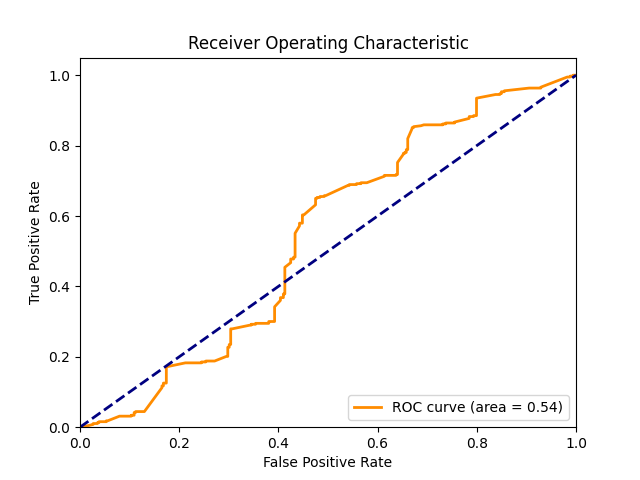
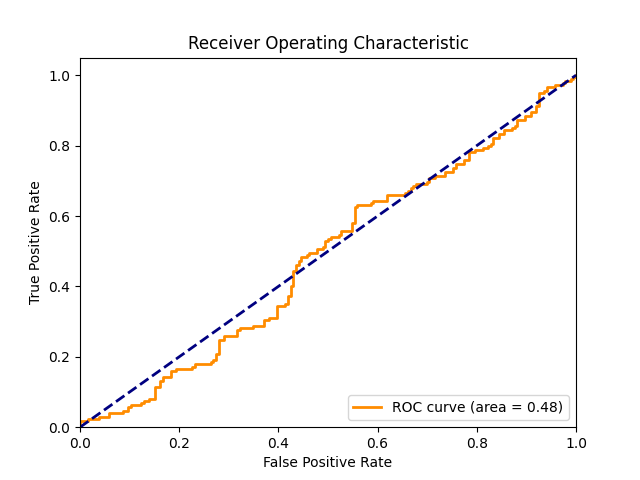
add blocks to mlo

diff --git a/src/network.py b/src/network.py
@@ -57,9 +57,13 @@ class complexSiamese(nn.Module):
         self.bn3 = nn.BatchNorm2d(128)
         
         self.conv4 = nn.Conv2d(128, 256, kernel_size=3, padding=1)
+        ## same output channels, just to refine the features later on
+        self.conv5 = nn.Conv2d(256, 256, kernel_size=3, padding=1)
         self.bn4 = nn.BatchNorm2d(256)
         
-        self.conv5 = nn.Conv2d(256, 512, kernel_size=3, padding=1)
+        self.conv6 = nn.Conv2d(256, 512, kernel_size=3, padding=1)
+        self.conv7 = nn.Conv2d(512, 512, kernel_size=3, padding=1)
+    
         self.bn5 = nn.BatchNorm2d(512)
         
         # self.fc1 = nn.Linear(131072, 128)  # Adjust input size based on input dimensions
@@ -73,8 +77,14 @@ class complexSiamese(nn.Module):
         output1_pool2 = F.max_pool2d(output1_conv2, kernel_size=2, stride=2)
         output1_conv3 = F.relu(self.bn3(self.conv3(output1_pool2)))
         output1_pool3 = F.max_pool2d(output1_conv3, kernel_size=2, stride=2)
-        output1_conv4 = F.relu(self.bn4(self.conv4(output1_pool3)))
-        output1_pool4 = F.max_pool2d(output1_conv4, kernel_size=2, stride=2)
+        
+        output1_conv4 = F.relu(self.conv4(output1_pool3))
+        output1_conv5 = F.relu(self.bn4(self.conv5(output1_conv4)))
+        output1_pool4 = F.max_pool2d(output1_conv5, kernel_size=2, stride=2)
+        
+        output1_conv6 = F.relu(self.conv6(output1_pool4))
+        output1_conv7 = F.relu(self.conv7(output1_conv6))
+        output1_pool5 = F.max_pool2d(output1_conv7, kernel_size=2, stride=2)
 
 
         output2_conv1 = F.relu(self.bn1(self.conv1(input2)))
@@ -83,13 +93,19 @@ class complexSiamese(nn.Module):
         output2_pool2 = F.max_pool2d(output2_conv2, kernel_size=2, stride=2)
         output2_conv3 = F.relu(self.bn3(self.conv3(output2_pool2)))
         output2_pool3 = F.max_pool2d(output2_conv3, kernel_size=2, stride=2)
-        output2_conv4 = F.relu(self.bn4(self.conv4(output2_pool3)))
-        output2_pool4 = F.max_pool2d(output2_conv4, kernel_size=2, stride=2)
+        
+        output2_conv4 = F.relu(self.conv4(output2_pool3))
+        output2_conv5 = F.relu(self.bn4(self.conv5(output2_conv4)))
+        output2_pool4 = F.max_pool2d(output2_conv5, kernel_size=2, stride=2)
+    
+        output2_conv6 = F.relu(self.conv6(output2_pool4))
+        output2_conv7 = F.relu(self.conv7(output2_conv6))
+        output2_pool5 = F.max_pool2d(output2_conv7, kernel_size=2, stride=2)
         # output2 = output2.view(output2.size(0), -1)  # Flatten to (batch_size, 128*32*32)
         # output2 = self.dropout(output2)
         # output2 = self.fc1(output2)
 
-        return [output1_pool2, output2_pool2], [output1_pool3, output2_pool3], [output1_pool4, output2_pool4]
+        return [output1_pool3, output2_pool3], [output1_pool4, output2_pool4], [output1_pool5, output2_pool5]
 class deeplab_V2(nn.Module):
     def __init__(self):
         super(deeplab_V2, self).__init__()
